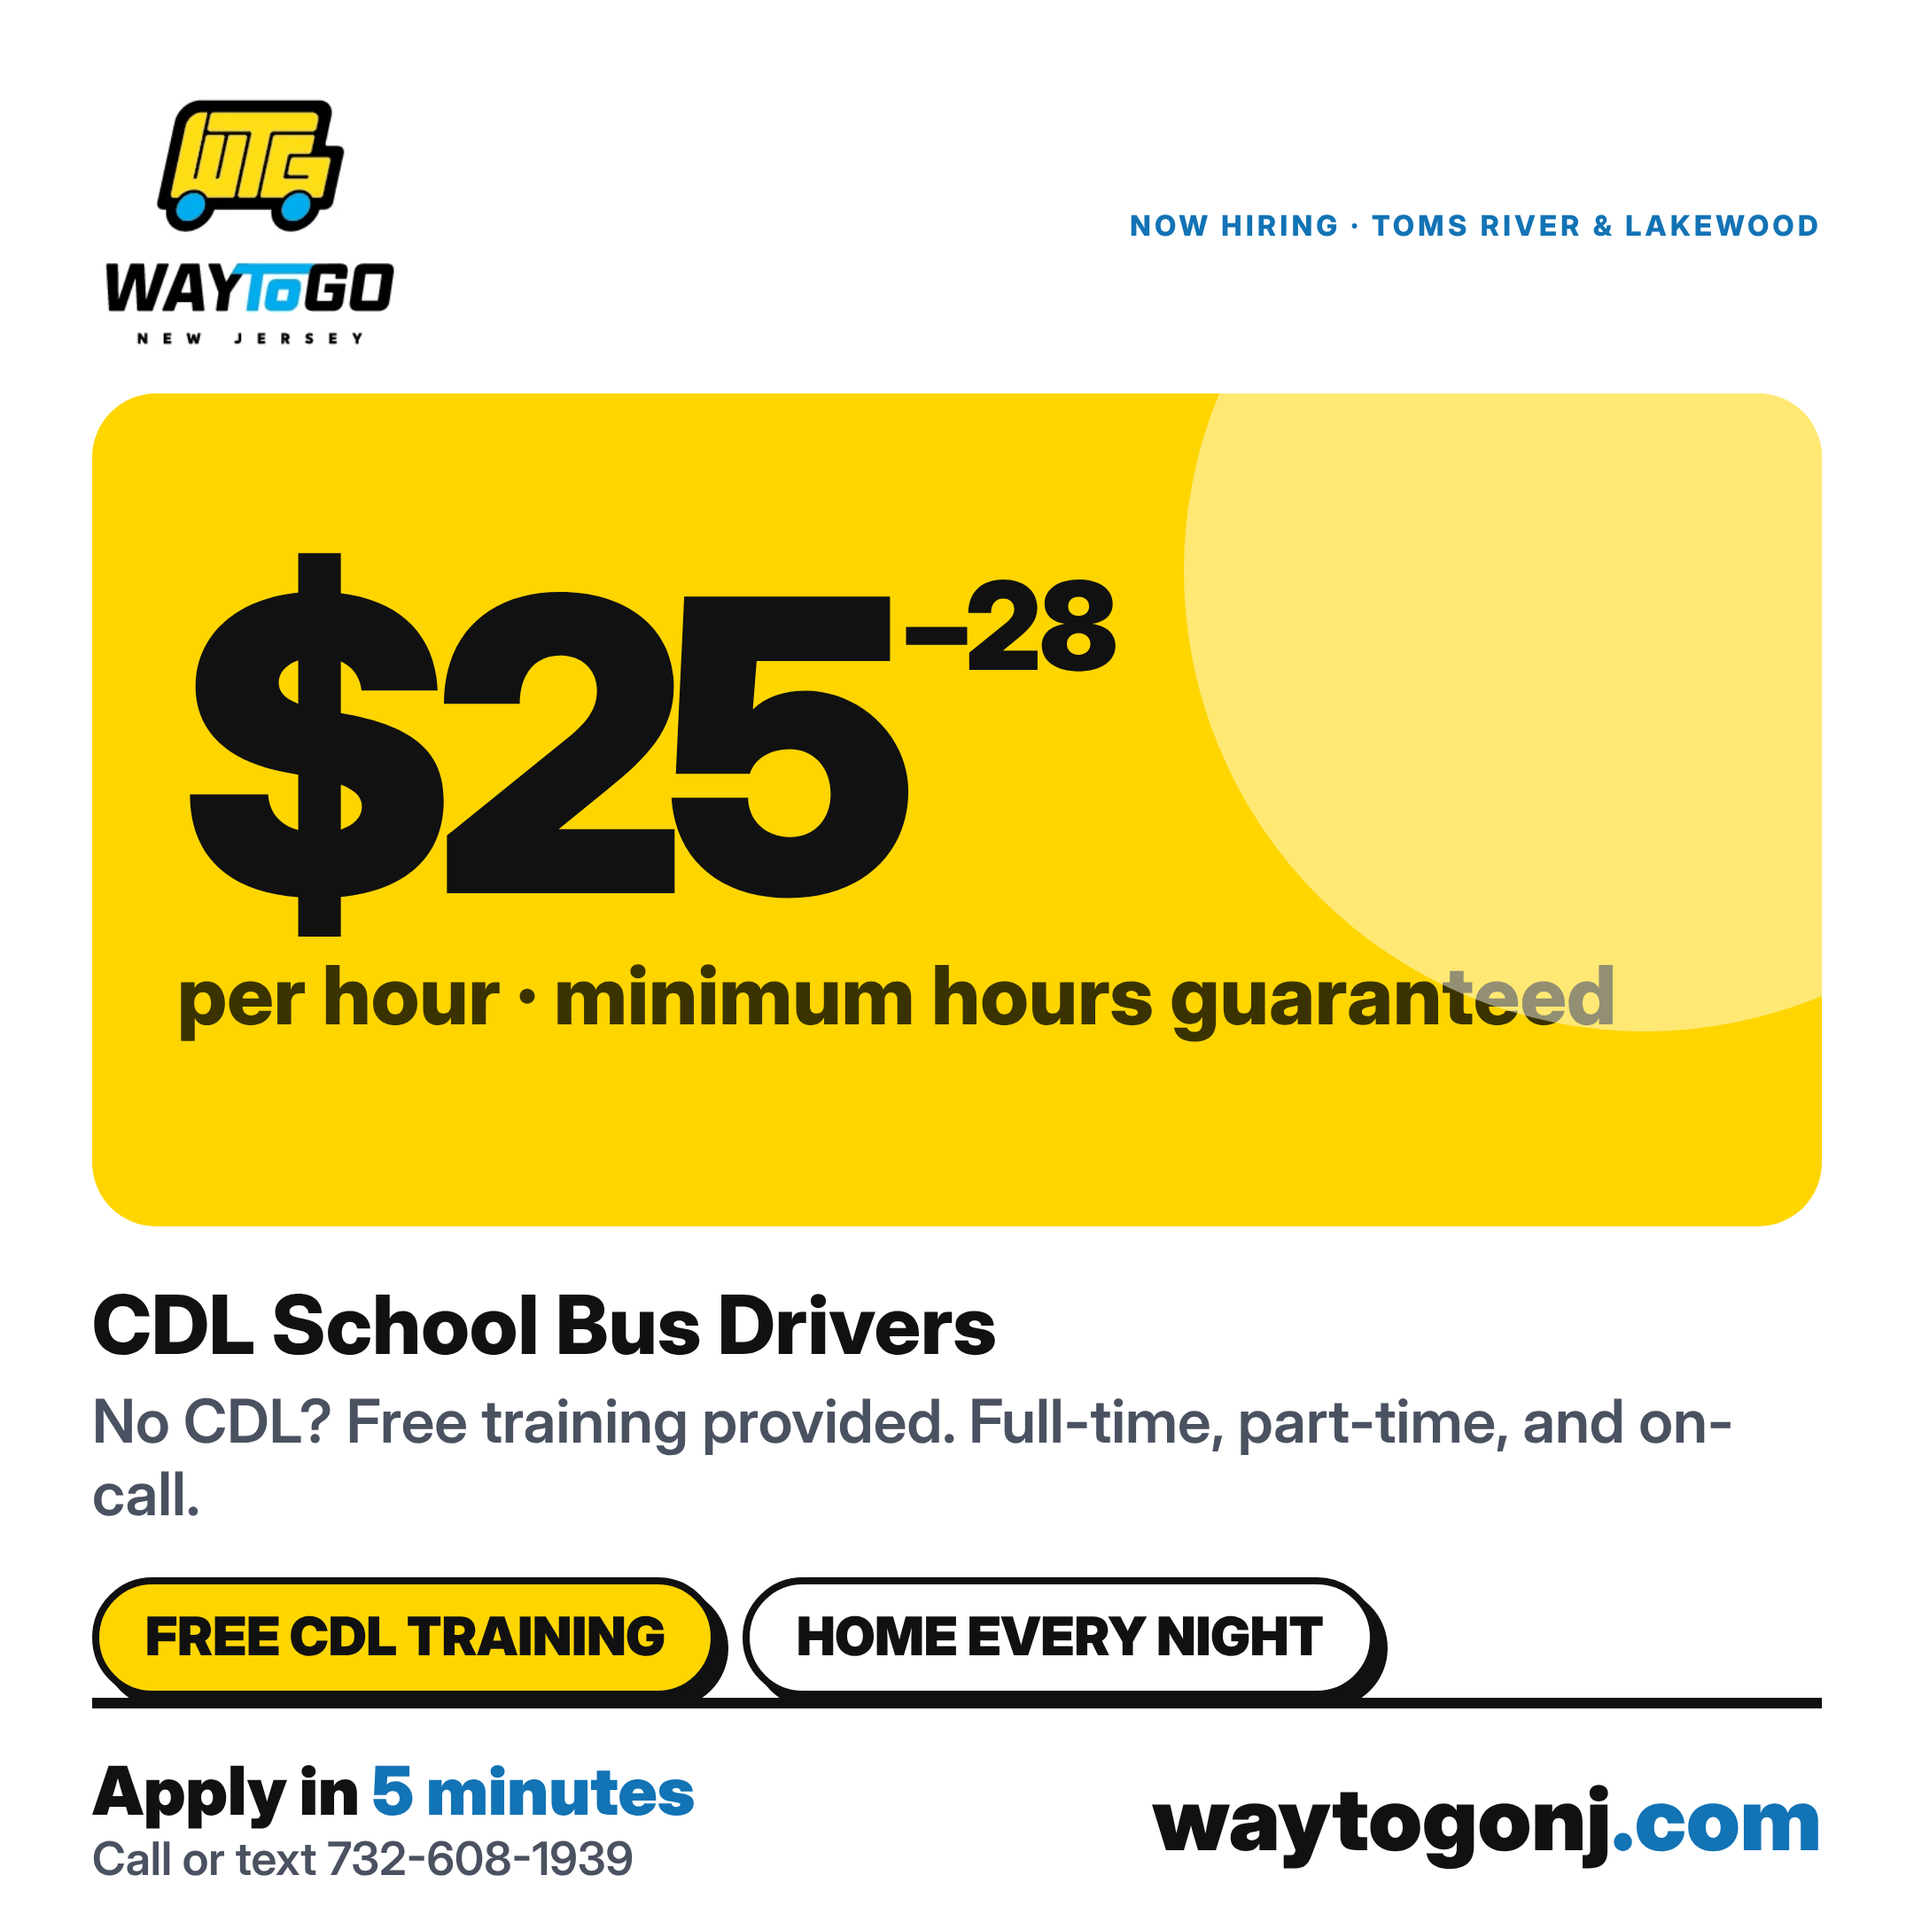
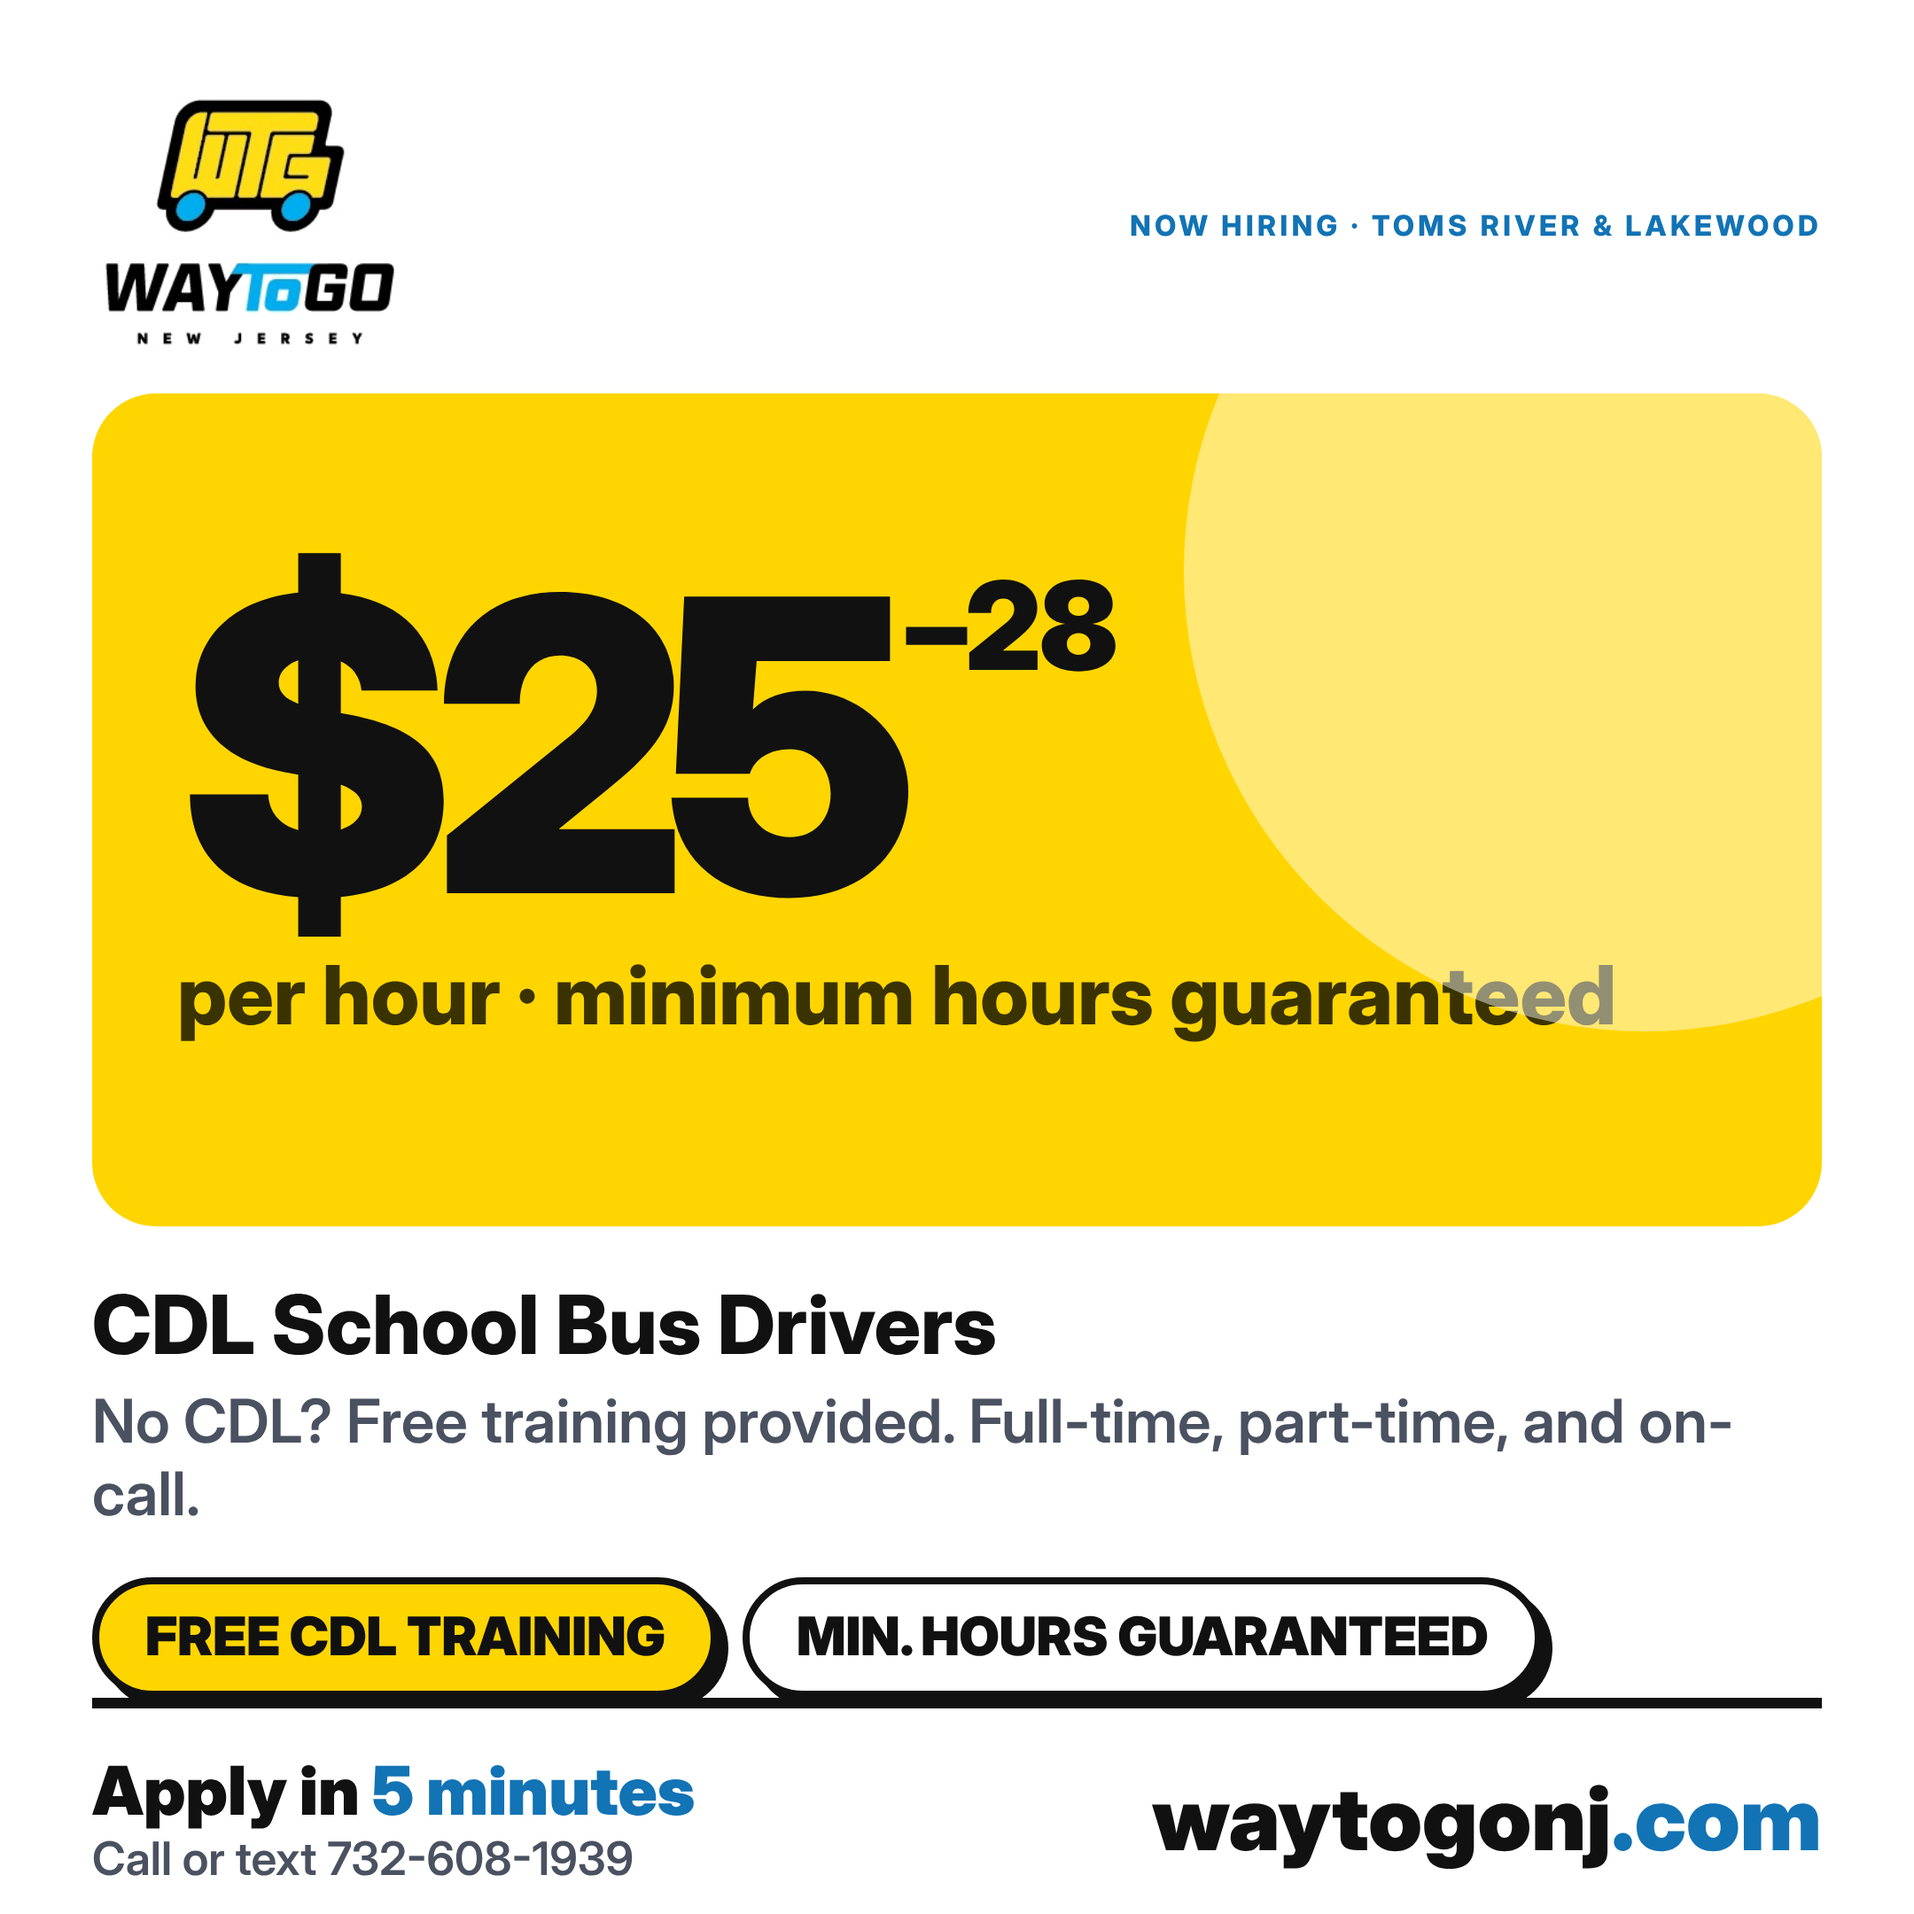
Remove home every night from ads and text
Claude-Session: https://claude.ai/code/session_01GpEHLGCwnEDuXkhiabGNJw

Changed region(s): [[0.4032, 0.8065, 0.8065, 0.8995]]

diff --git a/admin.html b/admin.html
@@ -347,7 +347,7 @@ const HOOKS = [
   { fb: "🚌 We're hiring CDL School Bus Drivers in Toms River and Lakewood, NJ!", ig: "🚌 Now hiring CDL School Bus Drivers in Toms River and Lakewood, NJ!", li: "Way To Go NJ LLC is hiring CDL School Bus Drivers in Toms River and Lakewood, NJ.", line: "Steady work close to home. Perfect for retirees, parents, and anyone who wants a reliable job in the area." },
   { fb: "💰 $25 to $28 per hour, minimum hours guaranteed. Way To Go NJ is hiring school bus drivers in Toms River and Lakewood, NJ.", ig: "💰 $25 to $28 per hour. Minimum hours guaranteed. Now hiring in Toms River and Lakewood, NJ.", li: "$25 to $28 per hour with minimum hours guaranteed. Way To Go NJ LLC is hiring CDL School Bus Drivers in Toms River and Lakewood, NJ.", line: "Real pay, real hours. A growing local company building its team from the ground up." },
   { fb: "🎓 No CDL? No problem. We train you for free.", ig: "🎓 No CDL? No problem. Free training provided.", li: "No CDL yet? Way To Go NJ LLC provides free training for new school bus drivers in Toms River and Lakewood, NJ.", line: "We walk you through the whole process, from permit to endorsements. Most of our best drivers started with no CDL at all." },
-  { fb: "🛣 Your route starts here. Way To Go NJ is hiring school bus drivers for local routes in Toms River and Lakewood, NJ.", ig: "🛣 Your route starts here. School bus drivers wanted in Toms River and Lakewood, NJ.", li: "Your route starts here. Way To Go NJ LLC is hiring CDL School Bus Drivers for local routes in Toms River and Lakewood, NJ.", line: "No overnights, no long hauls. Local routes, steady hours, home every night." },
+  { fb: "🛣 Your route starts here. Way To Go NJ is hiring school bus drivers for local routes in Toms River and Lakewood, NJ.", ig: "🛣 Your route starts here. School bus drivers wanted in Toms River and Lakewood, NJ.", li: "Your route starts here. Way To Go NJ LLC is hiring CDL School Bus Drivers for local routes in Toms River and Lakewood, NJ.", line: "No overnights, no long hauls. Local routes and steady hours with minimum hours guaranteed." },
 ];
 function TPLS(offset) { const H = HOOKS[weekIndex(offset || 0)]; const bonus = C('bonus') ? C('bonus') + '\n' : ''; const b1 = C('bonus') ? ' ' + C('bonus') + '.' : ''; return [
   { k: 'indeed', title: 'Indeed / ZipRecruiter / LinkedIn job post', where: 'Full description. Title: School Bus Driver, Toms River NJ, Free Training Available', text:
